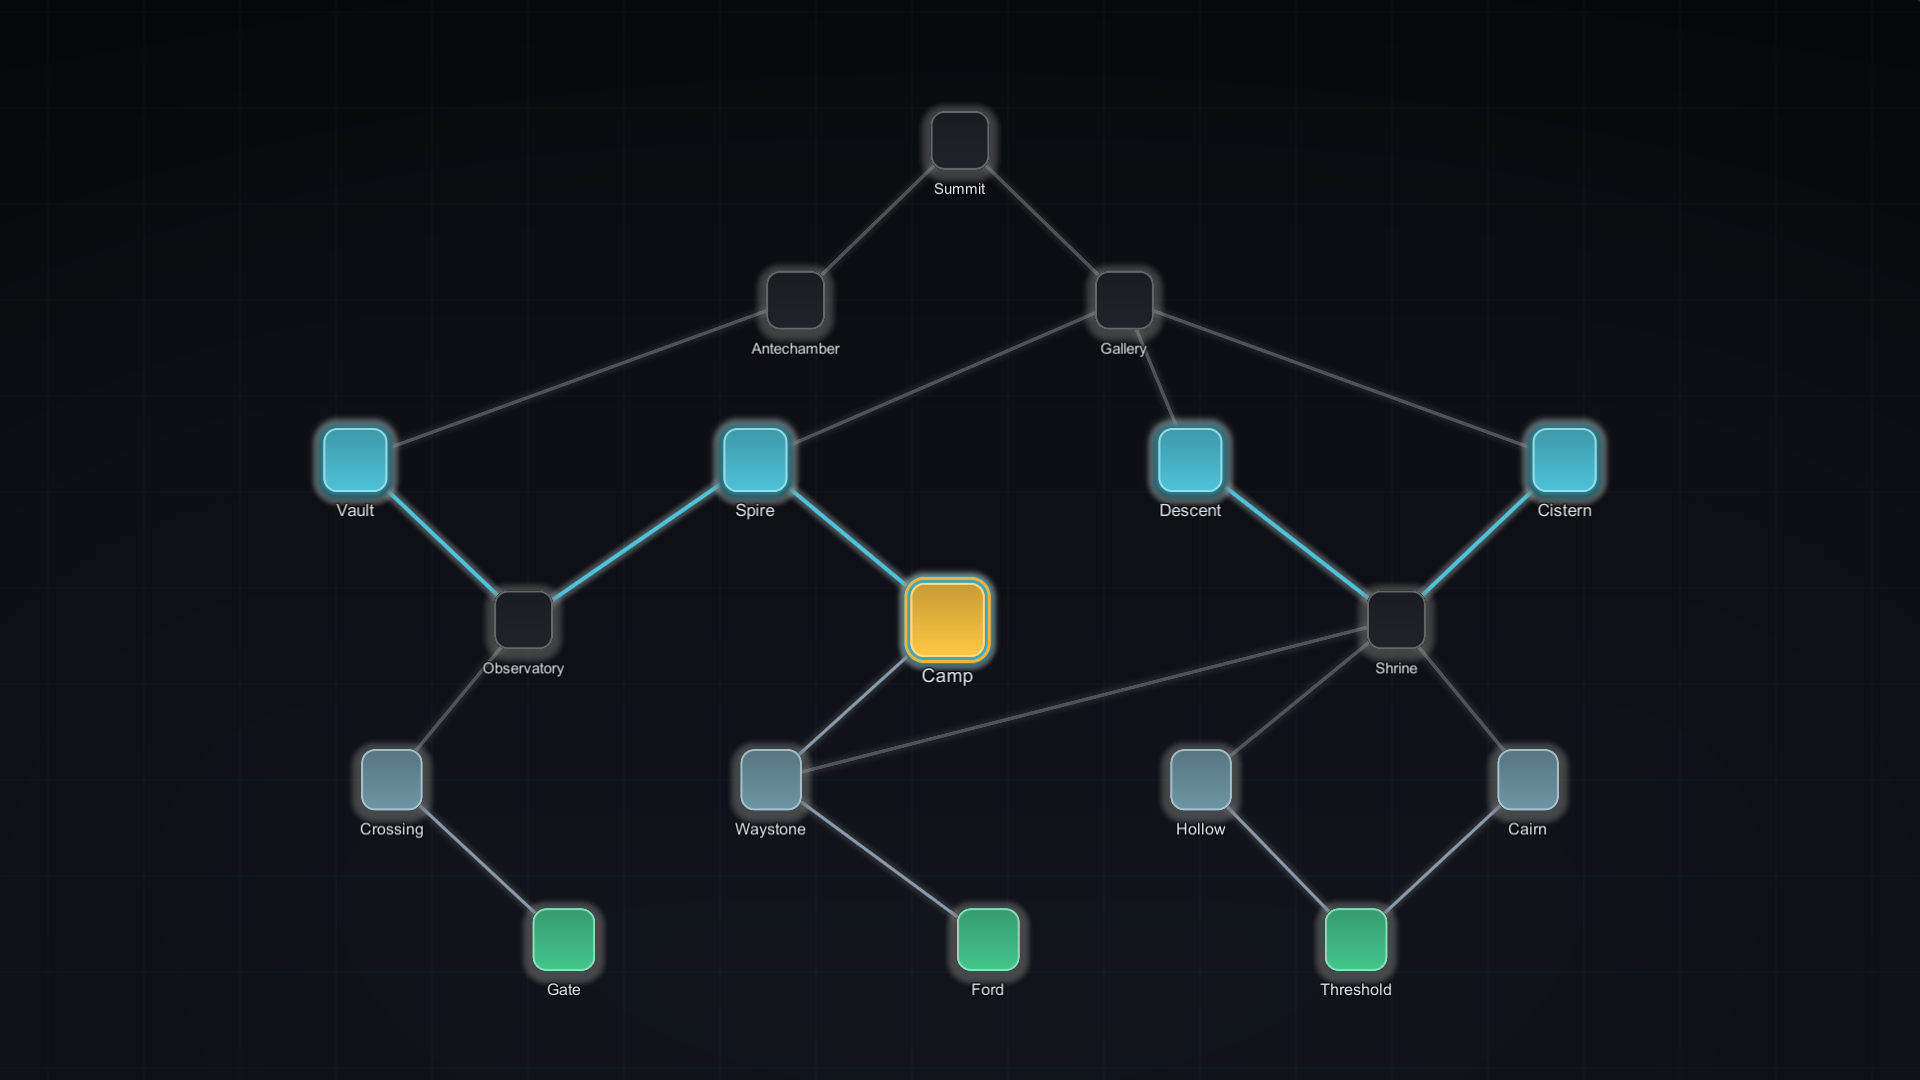
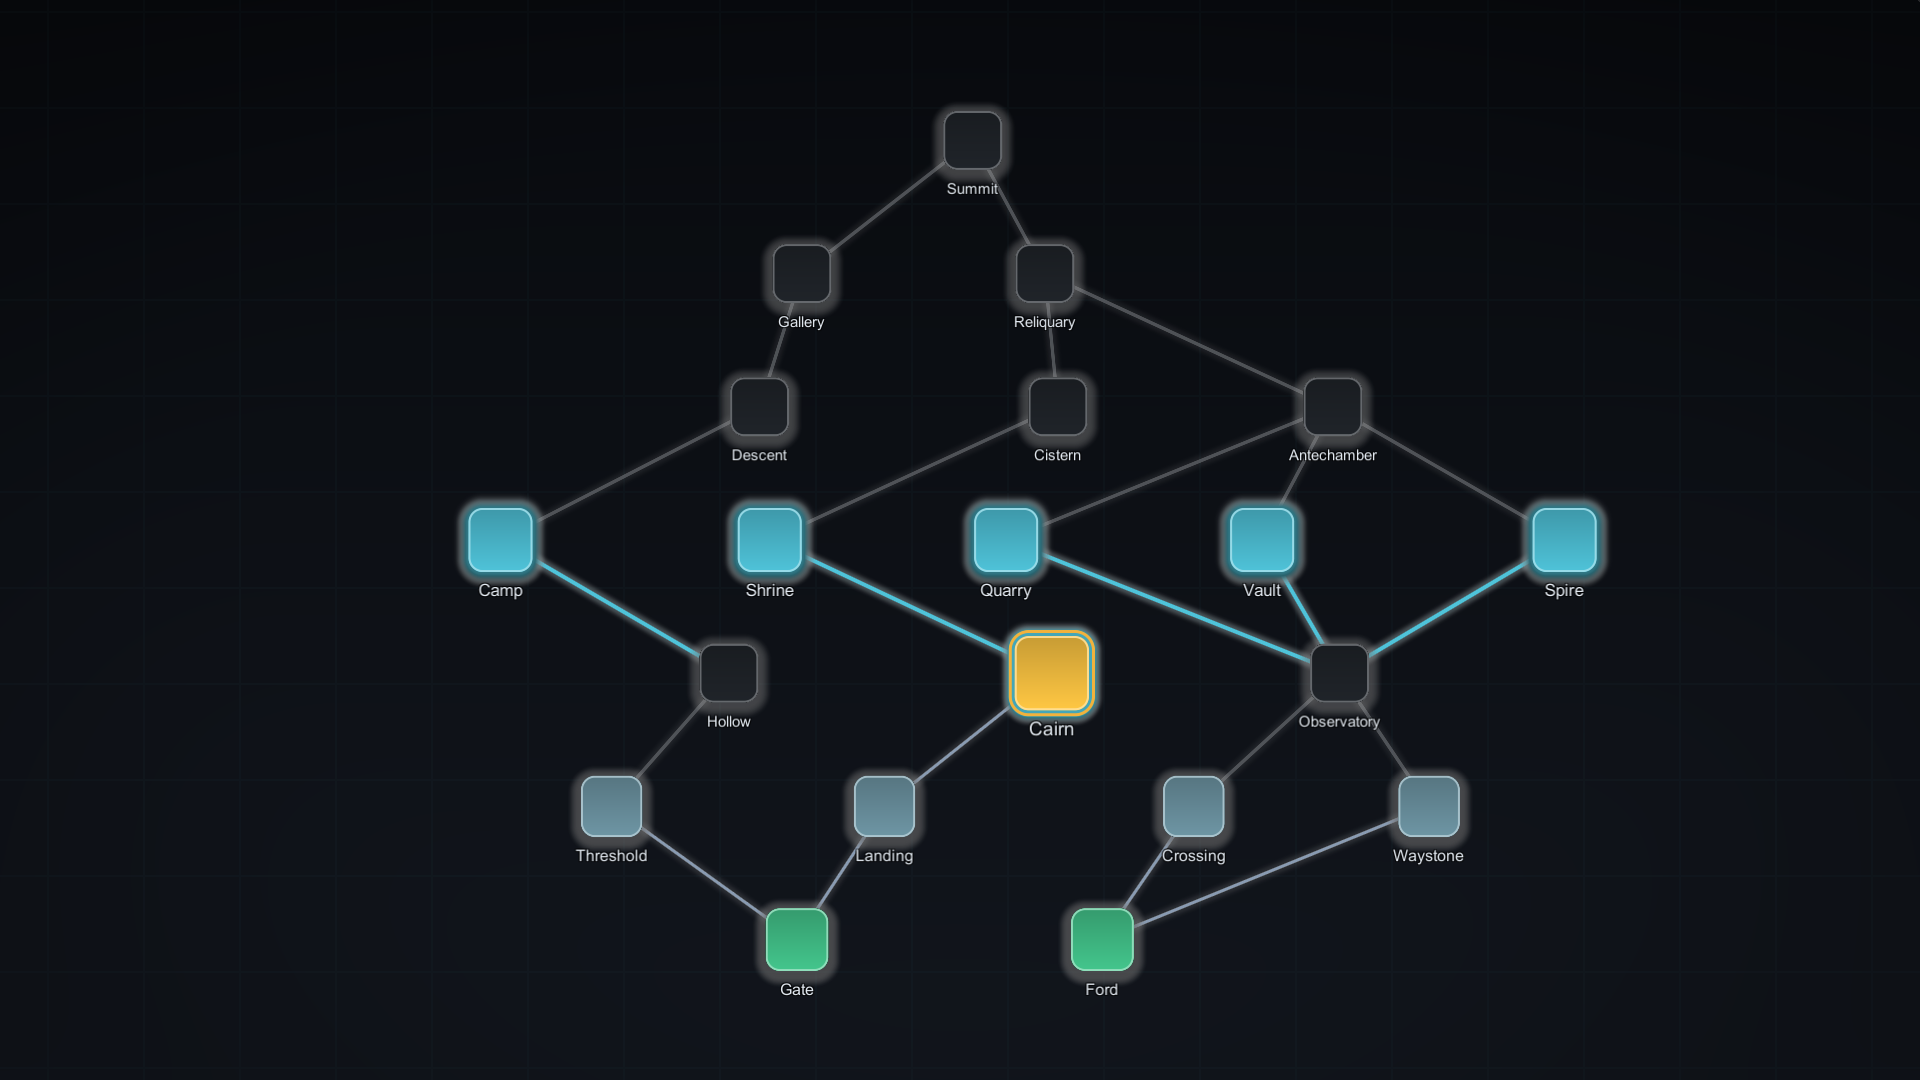
docs: document the edge crossing policy, more asymmetric example map
The rules asset has always carried a Crossing Policy (Forbid by default) that the
generator enforces per candidate edge, but it was undocumented. Writes it up,
including the fact that it is part of the rules fingerprint and therefore a
compatibility contract.

The example map is now seven layers of widths 2,4,3,5,3,2,1 with each layer's
ladder drifted off the spine, so the silhouette is asymmetric rather than a tidy
diamond. Labels are drawn from a flat pool so none repeat, and every route still
converges on a single summit without crossing.

diff --git a/docs/how-to/author-maps.md b/docs/how-to/author-maps.md
@@ -72,6 +72,29 @@ Field-by-field detail is in the package's own
 `Assets/BranchWeaver/Documentation/Authoring-Field-Reference.md`, which ships with the
 product and stays in sync with it.
 
+### Can routes cross each other?
+
+That is your choice, on the rules asset:
+
+| `Crossing Policy` | Meaning |
+| --- | --- |
+| **`Forbid`** | Routes may **merge** into a node but never intersect mid-air. **The default.** |
+| `Allow` | Routes may cross freely, giving denser, more tangled maps. |
+
+`Forbid` is enforced during generation, not cleaned up afterwards: the generator
+rejects any candidate edge that would cross an already-selected one, so a map that
+comes back is crossing-free by construction rather than by luck. The preflight also
+uses it, so an unsatisfiable combination of `Forbid` plus very dense connection rules
+is reported before the search starts instead of failing seed by seed.
+
+!!! warning "It is part of the fingerprint"
+    The crossing policy is included in the rules fingerprint, so changing it changes
+    which maps a seed produces. Treat it as a compatibility contract: flipping it after
+    shipping means existing seeds no longer reproduce their old maps.
+
+Every screenshot in this documentation uses `Forbid`, which is why routes in the
+examples converge but never intersect.
+
 ### Start small
 
 A rule set that is too tight is unsatisfiable, and a rule set that is too loose
